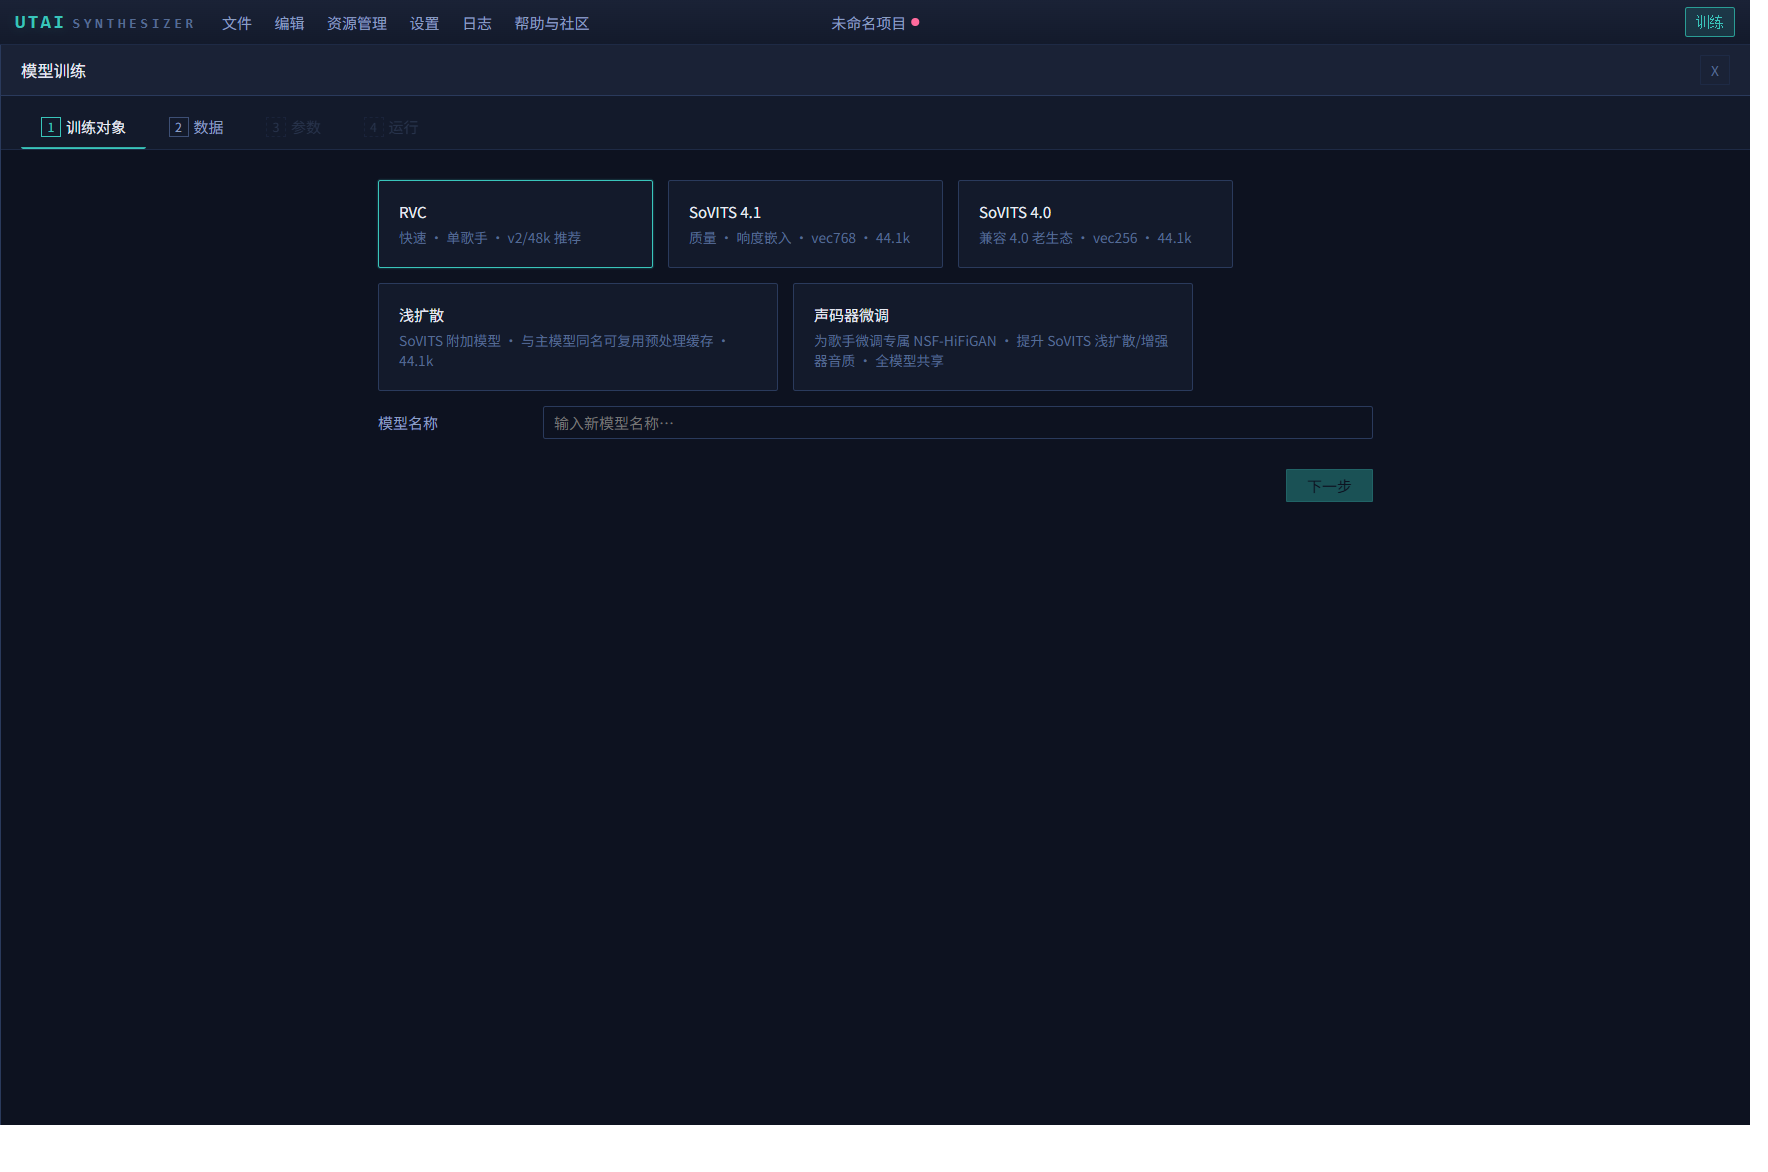
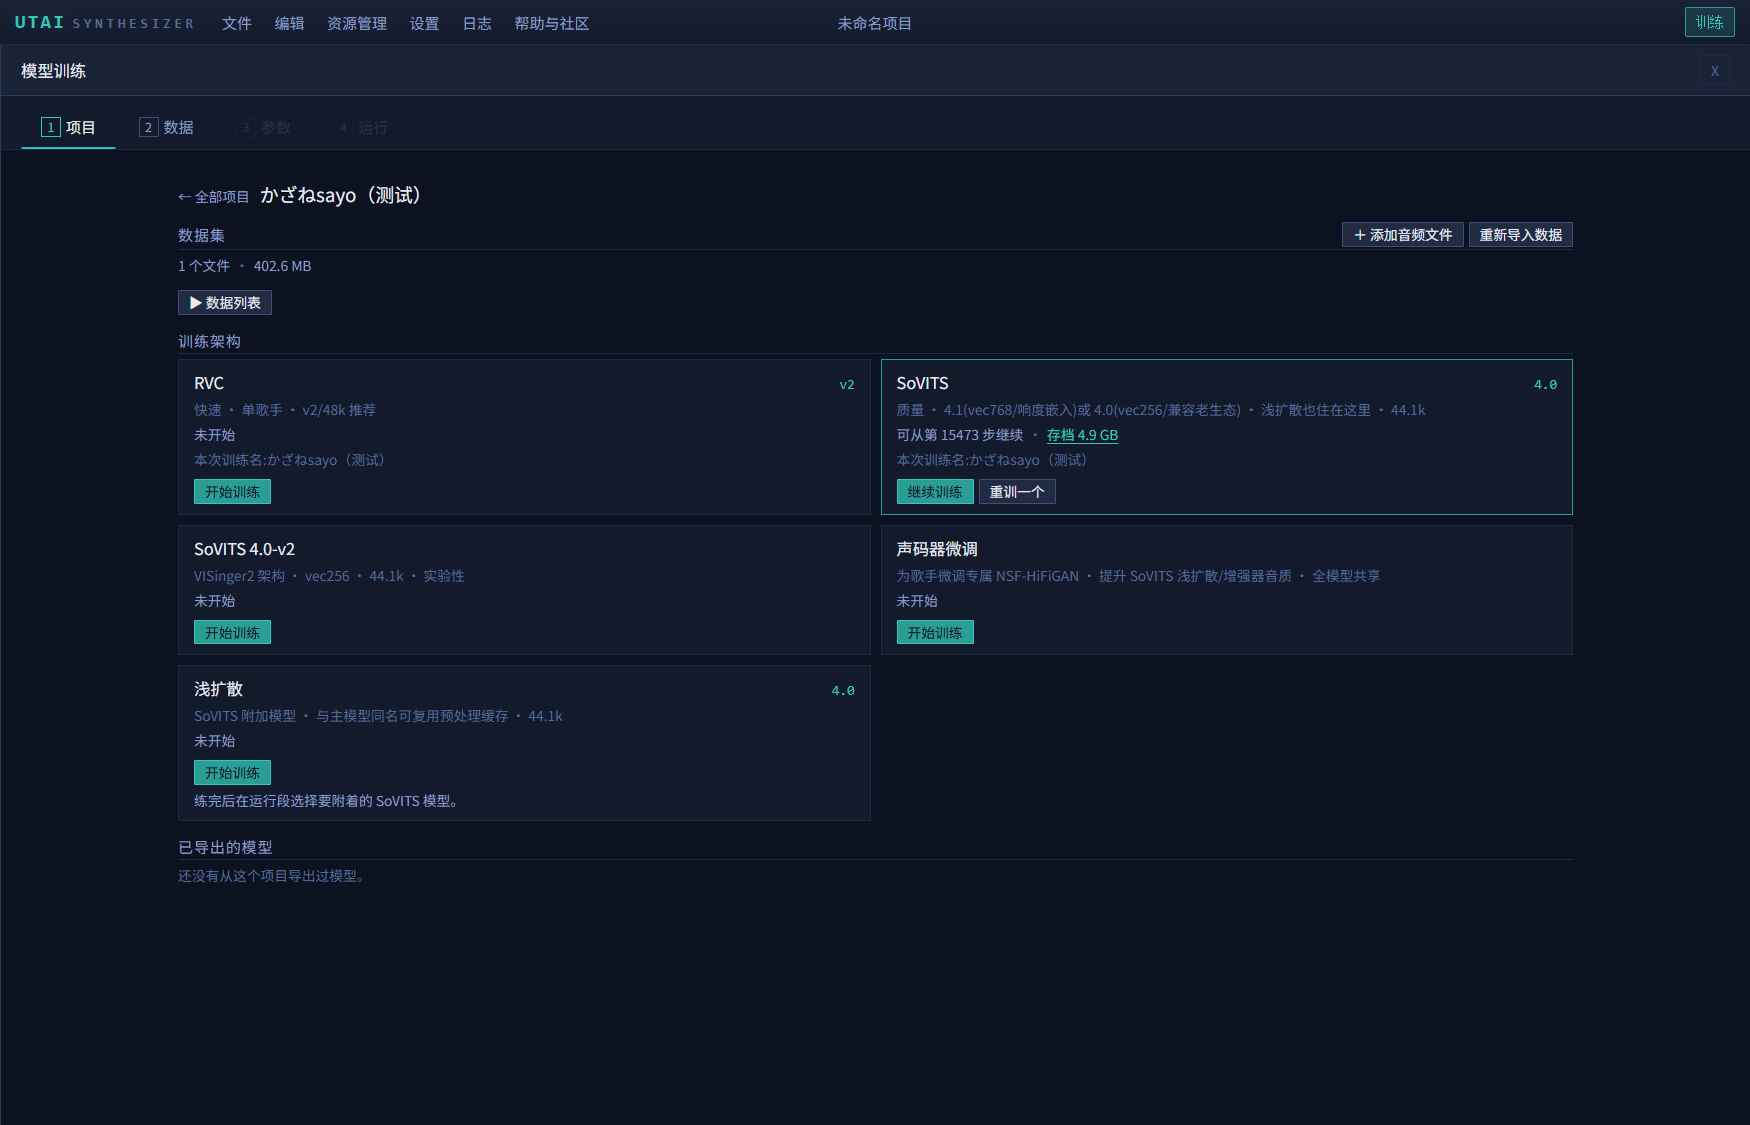
docs: 批7④ Chapter 8 截图——项目详情 / 列表 / 存档中心(三语)
CDP 驱动真窗口重拍新项目制 UI:
- training.png 换成「项目详情」页(数据集 + 5 张架构槽 + 已导出),
  替换陈旧的五卡向导图
- 新增 training-projects.png(§8.3 项目列表:搜索/排序/新建 + 家族徽章)
- 新增 training-archive.png(§8.9 存档中心:SoVITS 21 条存档,可续训/快照/
  最佳/底模 + 试听/导入)
三语文档 §8.3 / §8.9 同步引用。

diff --git a/docs/user-guide.en.md b/docs/user-guide.en.md
@@ -890,6 +890,8 @@ Across the top are four step tabs: "Project", "Data", "Parameters", "Run". The f
 
 Outside any project, the "Project" tab shows a wall of cards for every training project.
 
+![Training page · project list: search, sort, new project; each card shows architecture badges and data-set / disk size](images/training-projects.png)
+
 - **New project**: click "New project" at the top right and name it (CJK is fine, e.g. `歌姫テスト`; up to 80 characters, and not a duplicate of an existing project). It opens straight into the detail page.
 - **Search / sort**: the search box filters by name or note; "Recent / Name / Size" on the right switches the sort.
 - **Each card** shows the project name, size on disk ("—" until it has been measured), the architectures it already holds (e.g. `rvc`, `sovits`), and "Data X" or "No data imported", with the note below if there is one. Click a card to enter its detail.
@@ -1009,6 +1011,8 @@ When a run completes (or stops), the run page shows a summary card and **this ru
 - Rows pruned off disk by the retention policy grey out as "Pruned by the archive policy" and can no longer be auditioned/imported.
 
 After listening and importing, "Clear results" clears this page's display (the workspace and checkpoint files survive and resuming is unaffected, but this list with its audition/import buttons will not come back — finish importing before clearing).
+
+![The training archive center: every archive an architecture has on disk, with audition / import / attach actions by file type](images/training-archive.png)
 
 **The archive center** — you need not wait for a run to just finish: at any time, clicking an architecture slot's "Archives X" on the project detail page opens that architecture's **standalone archive page**, listing **every archive it has on disk**. Each row offers the action its **file type** supports: a deployable finished checkpoint (snapshot / best / final) can be auditioned and "Import to library"; a diffusion checkpoint can be auditioned and "attached" to an installed SoVITS; base models, resumable checkpoints and the like are display-only. The archive kind tags are "base", "resumable", "snapshot", "best", "Final", "torn half" and "just saved". A multi-singer model can pick a singer to audition here too. — It is precisely this page that keeps a shallow-diffusion checkpoint reachable after the summary page is dismissed, so it never becomes a dead end.
 

diff --git a/docs/user-guide.zh-CN.md b/docs/user-guide.zh-CN.md
@@ -890,6 +890,8 @@ RVC 模型：
 
 没进任何项目时，「项目」标签显示所有训练项目的卡片墙。
 
+![训练页 · 项目列表：搜索、排序、新建，每张卡片显示架构徽章与数据集 / 占用体积](images/training-projects.png)
+
 - **新建项目**：点右上「新建项目」，给它起个名（可用中日文，如 `歌姫テスト`；不超过 80 字符、不与已有项目重名）。建好即进入详情页。
 - **搜索 / 排序**：顶部搜索框按名称或备注过滤；右侧「最近 / 名称 / 体积」切换排序。
 - **每张卡片**显示项目名、占用体积（还没量过时显示「—」）、已有的架构（如 `rvc`、`sovits`）、以及「数据集 X」或「未导入数据」，有备注则显示在下方。点卡片进入详情。
@@ -1009,6 +1011,8 @@ RVC 模型：
 - 被存档保留策略清出磁盘的行会灰显为「已被存档策略清理」，不能再试听/导入。
 
 听完、导完之后可点「清空结果」清掉本页显示（工作区和存档文件保留、续训不受影响，但这个列表连同试听/导入按钮不会再出现——请先导完再清）。
+
+![训练存档中心：某架构在磁盘上的全部存档，按文件类型给出试听 / 导入 / 挂接动作](images/training-archive.png)
 
 **存档中心**——不必等训练刚结束：任何时候在项目详情点某个架构槽的「存档 X」，都会进入这个架构的**独立存档页**，列出它在磁盘上的**全部存档**。这里每一行按**文件类型**给出该做的动作：可部署的成品存档（快照 / 最佳 / 完成）能试听、「导入模型库」；扩散存档能试听、「挂接」到已安装的 SoVITS；底模、可续训存档等只做展示。存档种类标签有「底模」「可续训」「快照」「最佳」「完成」「半份存档」「刚落盘」。多歌手模型这里也能选歌手试听。——正因为有这个页面，浅扩散的存档在结算页关掉之后也随时够得着，不会变成死档。
 
